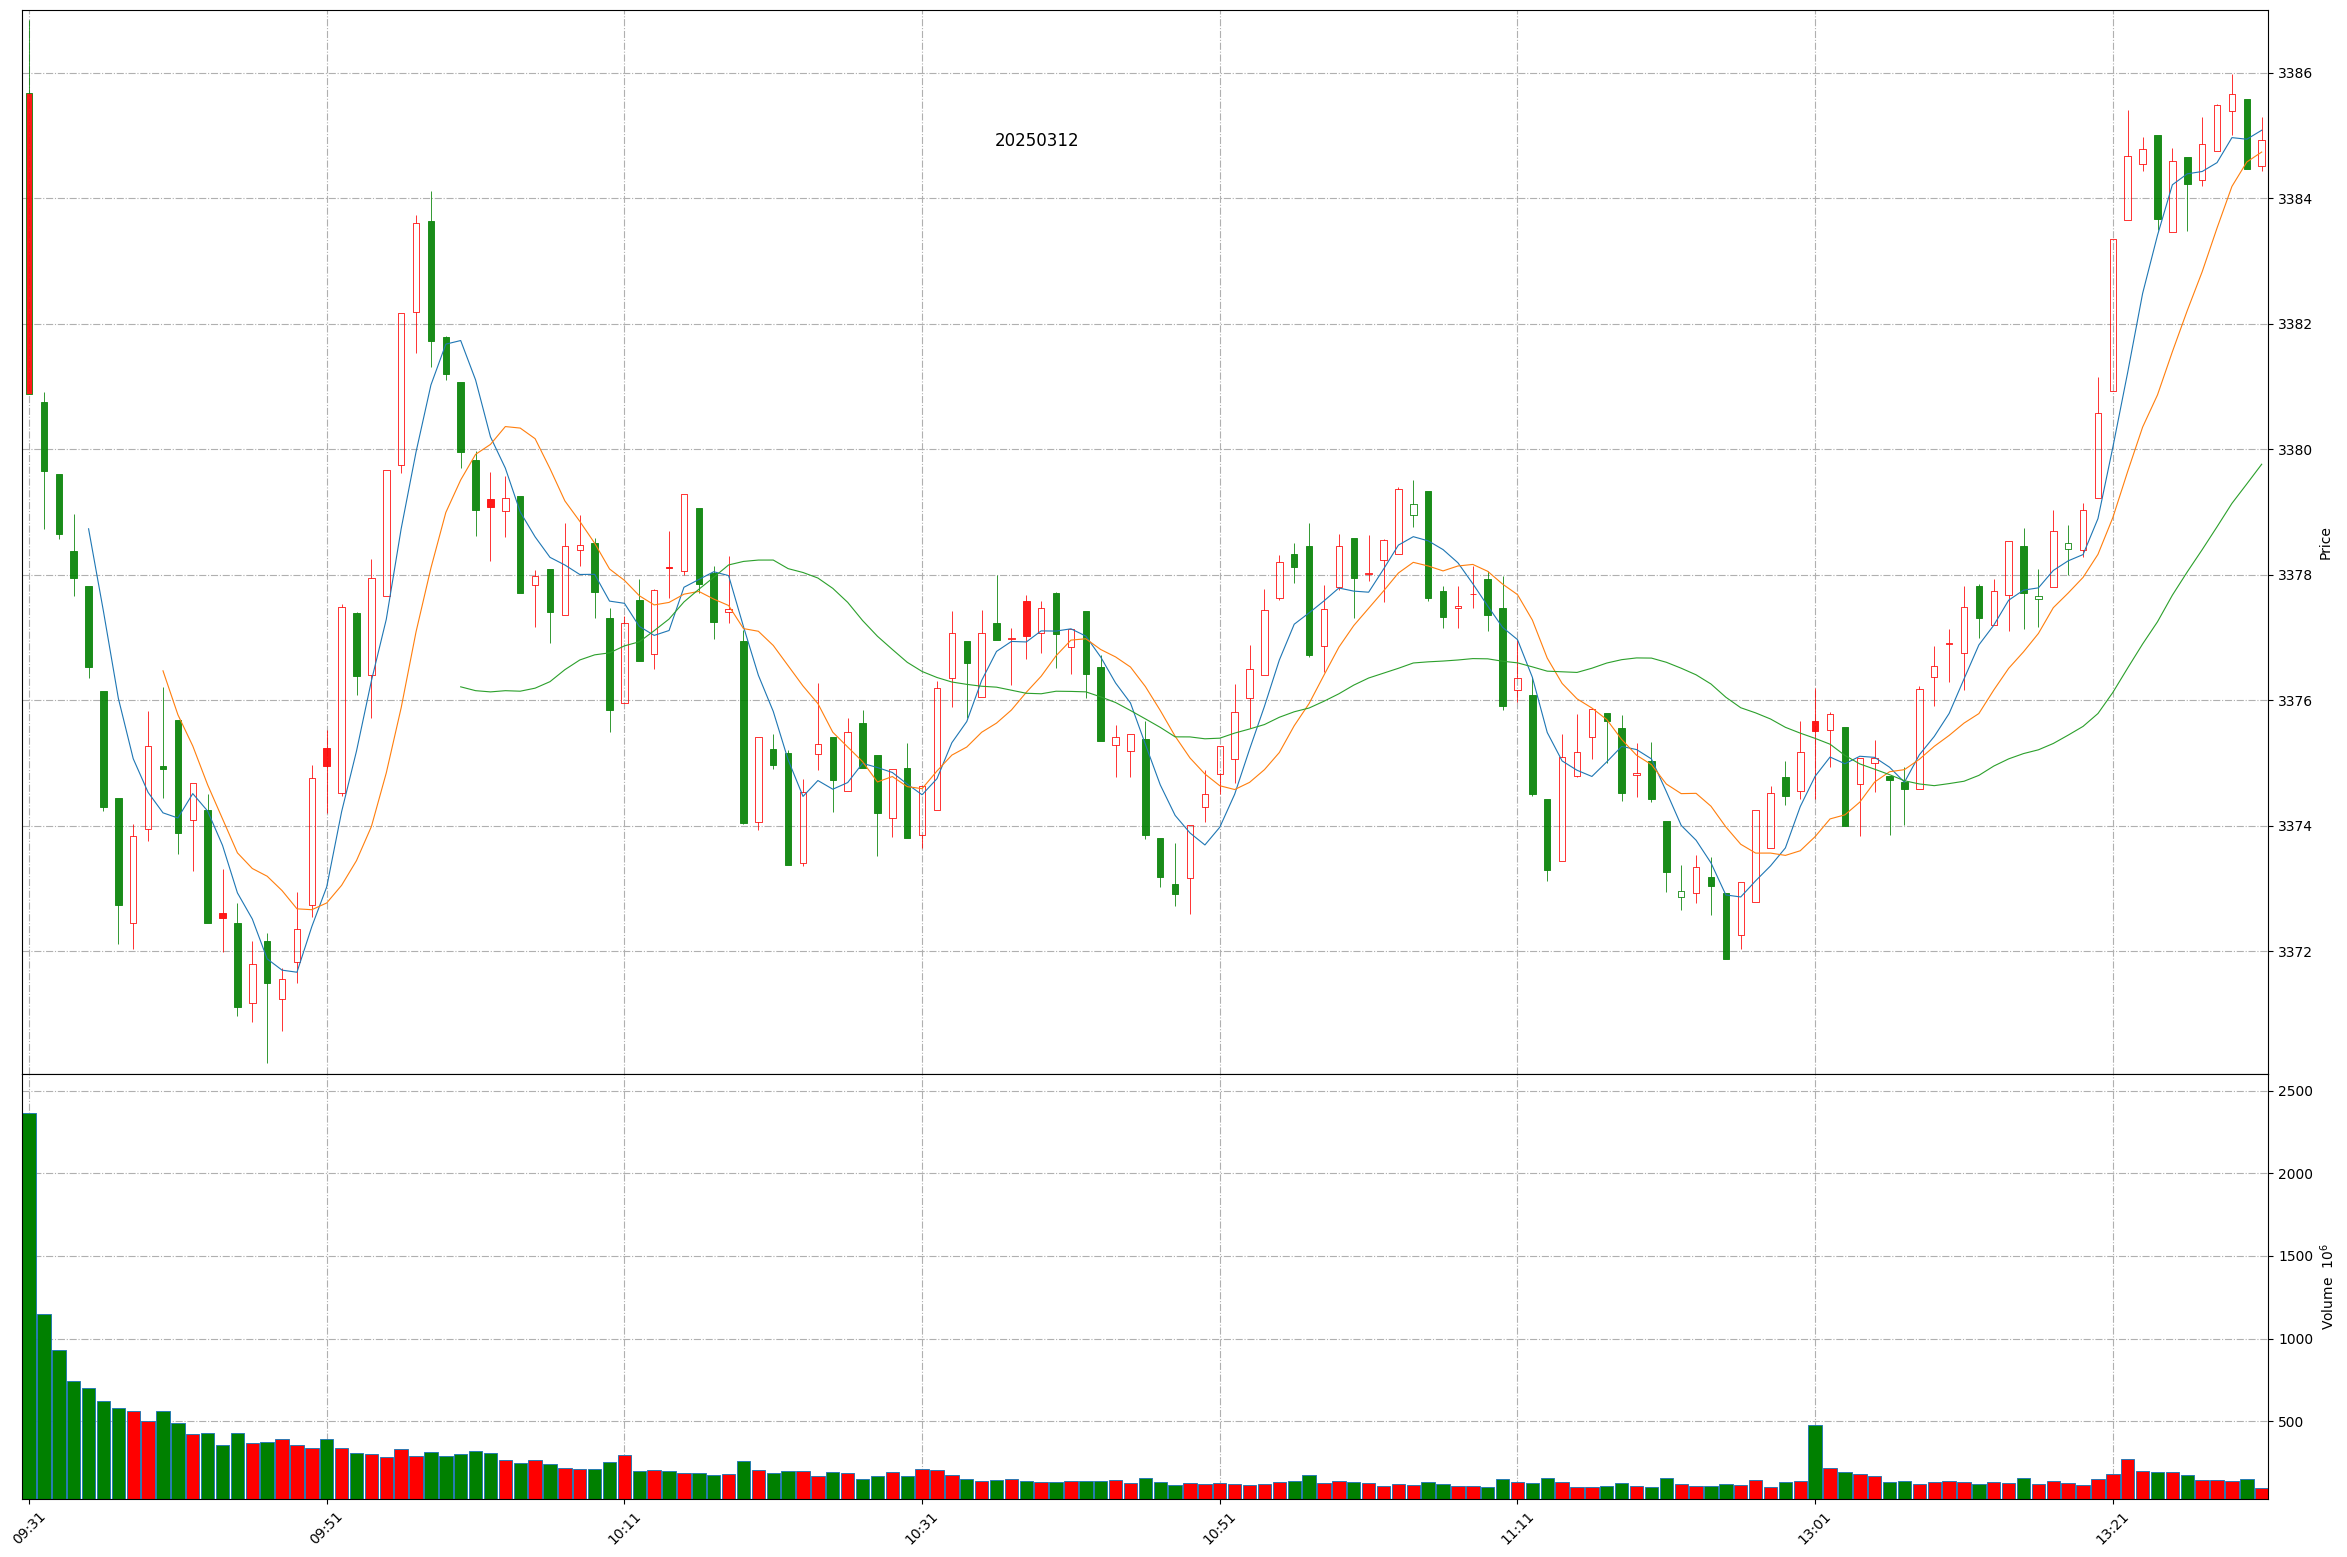
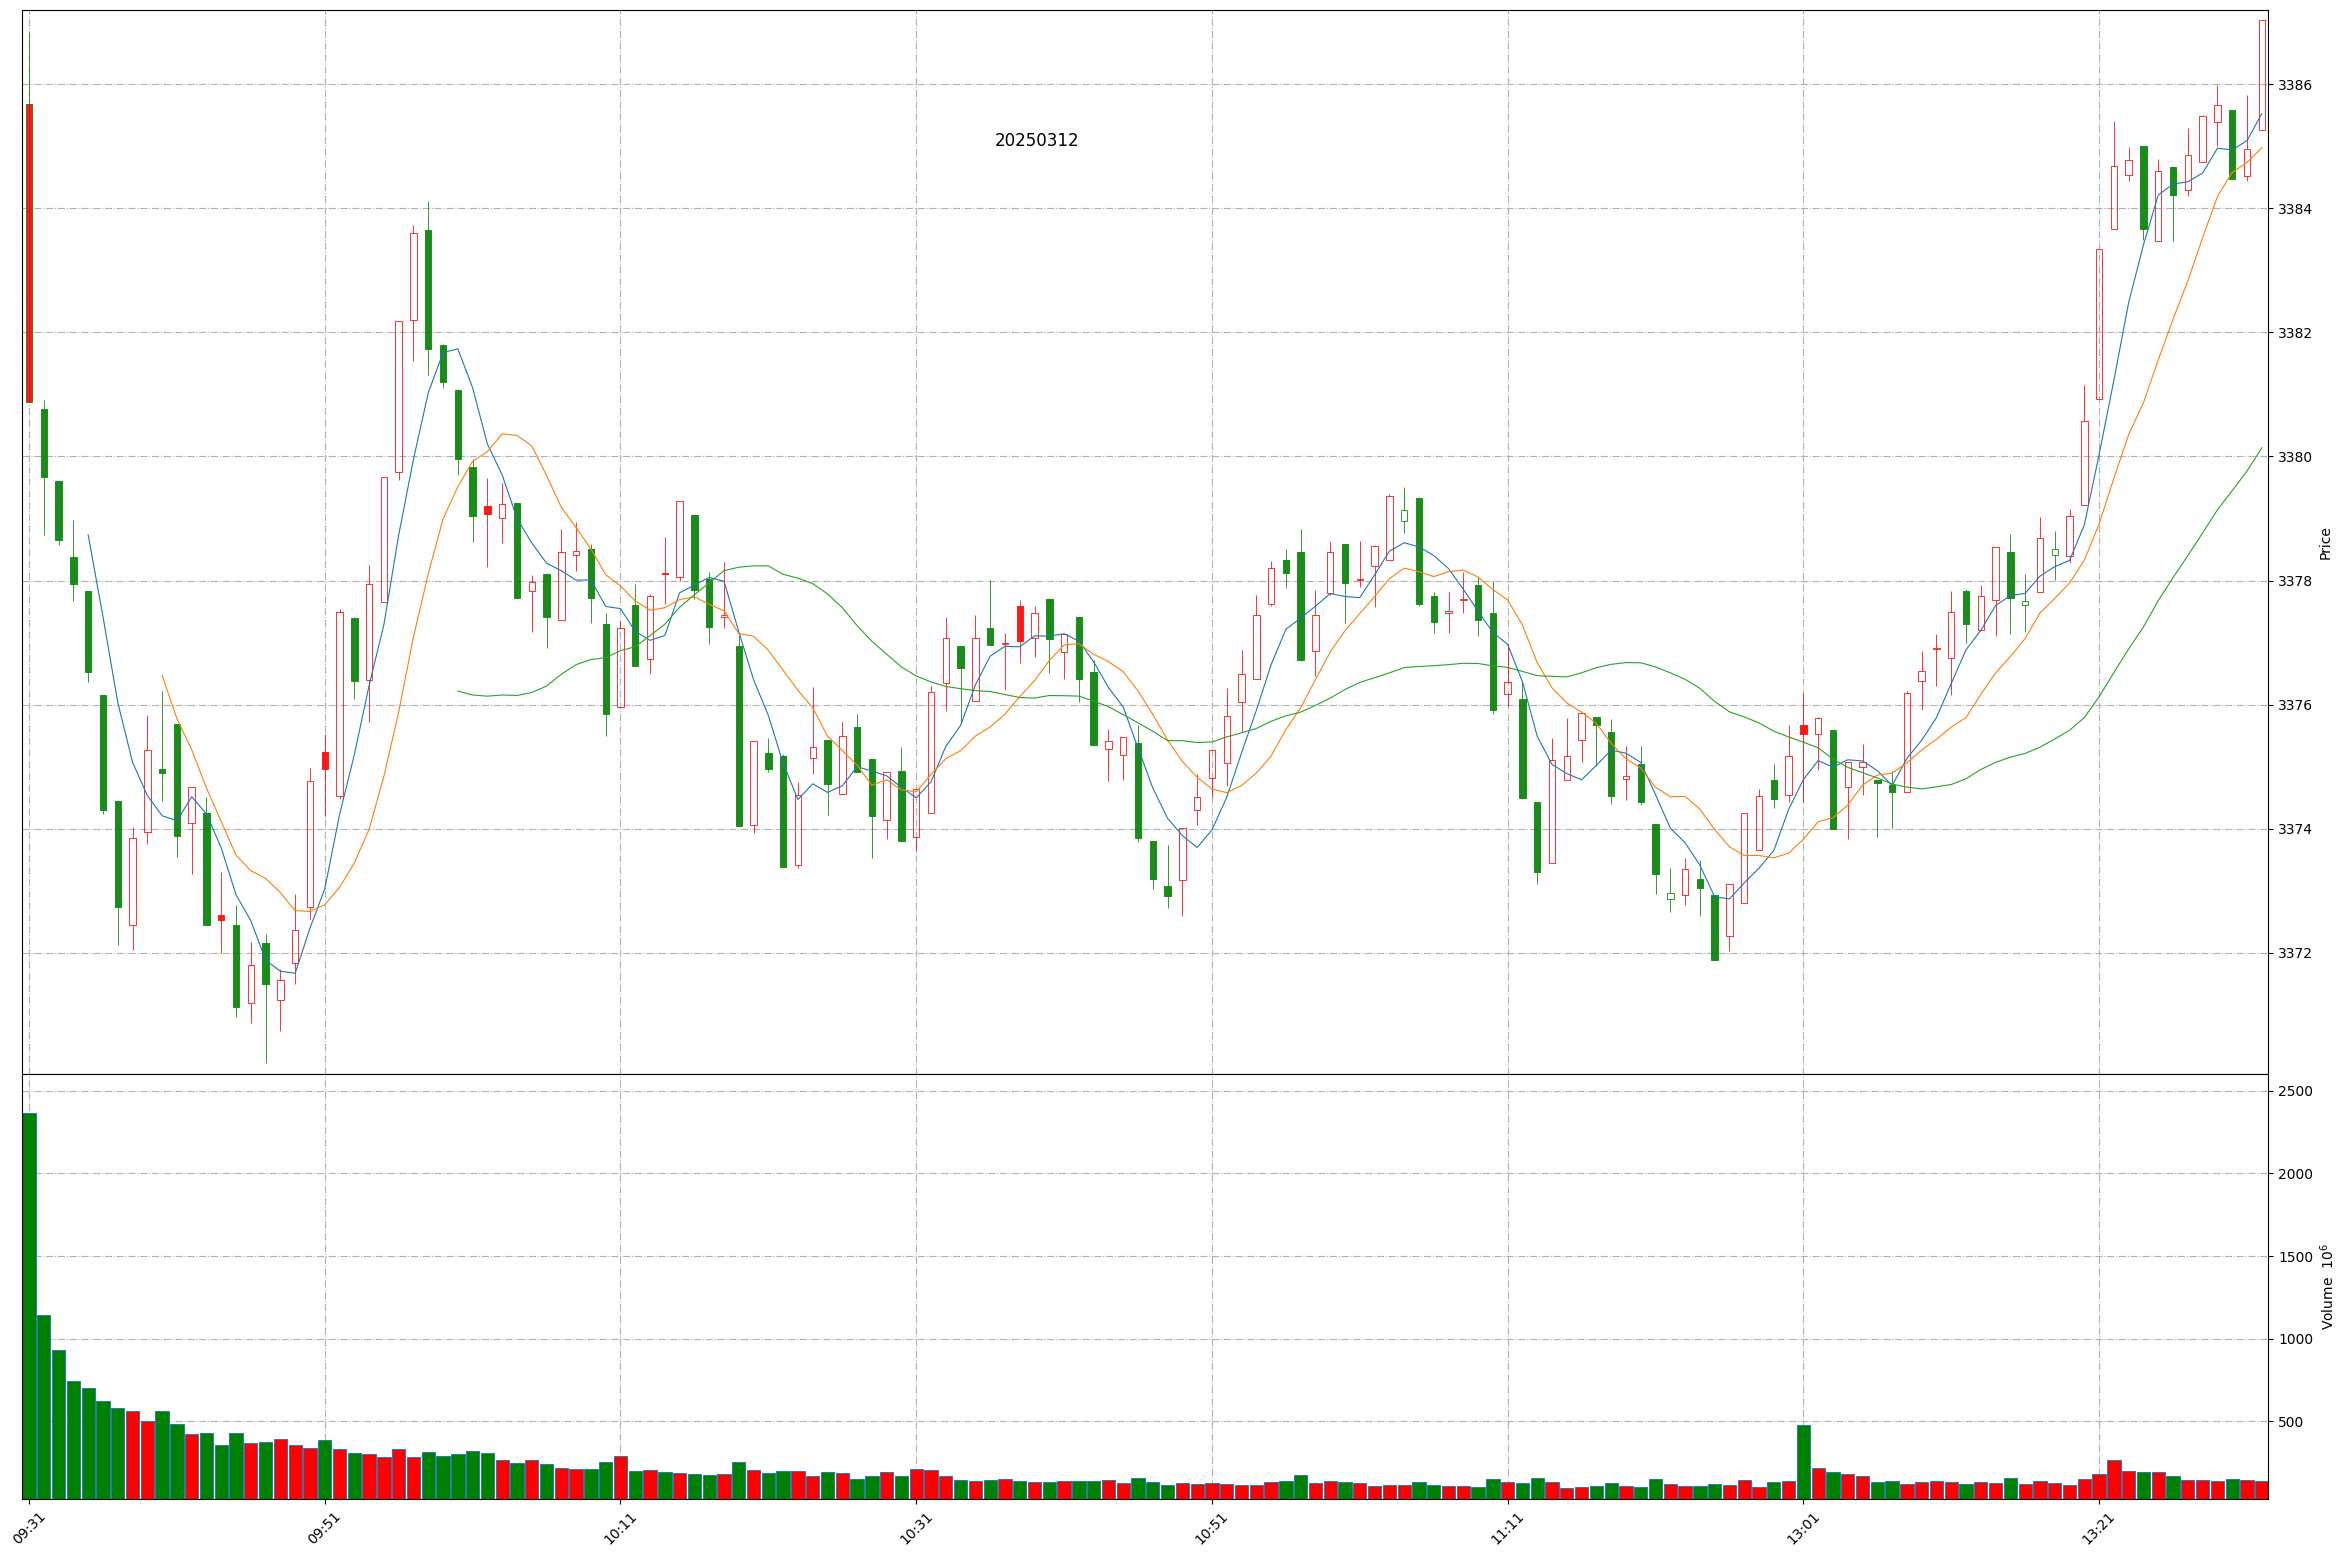
Github action update at 2025-03-12 13:32:04.

diff --git a/README.md b/README.md
@@ -1,11 +1,11 @@
 
 # Daily-A-share-market-quotes 每日 A 股指数（5min 更新）- 20250312
 
-### 上证指数 20250312 13:30
+### 上证指数 20250312 13:32
 ![](./fig/2025/3/20250312-sh000001.png)
 
-### 深证成指 20250312 13:30
+### 深证成指 20250312 13:32
 ![](./fig/2025/3/20250312-sz399001.png)
 
-### 北证50 20250312 13:30
+### 北证50 20250312 13:32
 ![](./fig/2025/3/20250312-bj899050.png)
